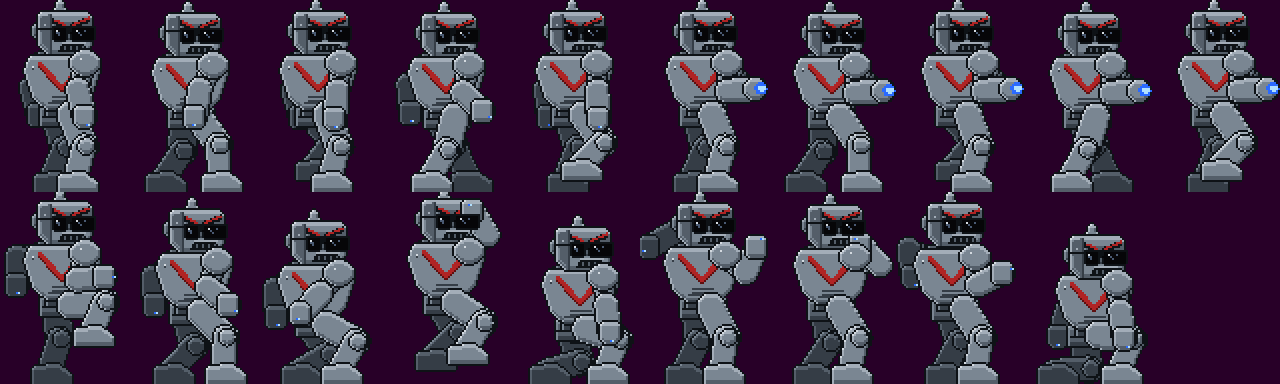
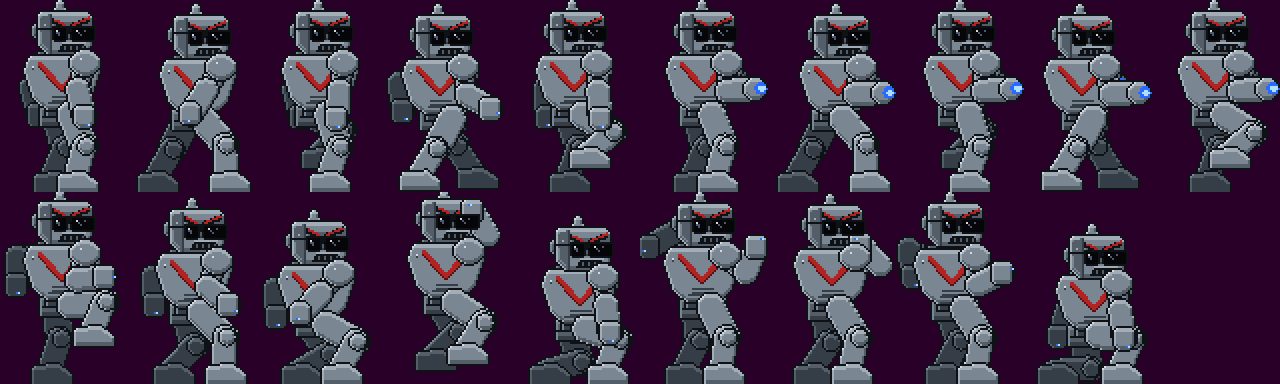
v0.1.1 art: bigger stride, torso sway, heavy footfalls
Longer steps with a high knee lift on the passing step, more body bob, the
chest, head and arms sway left and right with each step, and the screen
shakes a little on every footfall. Shooting while walking uses the same legs.

diff --git a/tools/make_art.py b/tools/make_art.py
@@ -425,15 +425,15 @@ def r_head(cv, hx, hy, eyes):
 ROBOT_POSES = [
     # name, dy, lean, front ankle, back ankle, front hand, back hand, palm, head dy, eyes
     ("stand", 0, 0, (37, 89), (25, 89), (42, 58), (19, 57), 0, 0, "on"),
-    ("walk1", 1, 0, (45, 89), (17, 89), (33, 58), (28, 58), 0, 0, "on"),
-    ("walk2", 0, 0, (36, 89), (28, 83), (39, 59), (22, 58), 0, 0, "on"),
-    ("walk3", 1, 0, (22, 89), (42, 89), (49, 55), (13, 56), 0, 0, "on"),
-    ("walk4", 0, 0, (33, 83), (26, 89), (43, 59), (18, 58), 0, 0, "on"),
+    ("walk1", 2, 4, (49, 89), (13, 89), (30, 58), (33, 58), 0, 0, "on"),
+    ("walk2", 0, 1, (35, 89), (31, 77), (40, 59), (22, 58), 0, 0, "on"),
+    ("walk3", 2, -3, (16, 89), (46, 89), (53, 54), (9, 55), 0, 0, "on"),
+    ("walk4", 0, 0, (37, 77), (27, 89), (44, 59), (17, 58), 0, 0, "on"),
     ("shoot", 0, 1, (37, 89), (25, 89), (57, 44), (53, 41), 1, 0, "on"),
-    ("shoot1", 1, 1, (45, 89), (17, 89), (57, 45), (53, 42), 1, 0, "on"),
-    ("shoot2", 0, 1, (36, 89), (28, 83), (57, 44), (53, 41), 1, 0, "on"),
-    ("shoot3", 1, 1, (22, 89), (42, 89), (57, 45), (53, 42), 1, 0, "on"),
-    ("shoot4", 0, 1, (33, 83), (26, 89), (57, 44), (53, 41), 1, 0, "on"),
+    ("shoot1", 2, 4, (49, 89), (13, 89), (57, 46), (53, 43), 1, 0, "on"),
+    ("shoot2", 0, 2, (35, 89), (31, 77), (57, 44), (53, 41), 1, 0, "on"),
+    ("shoot3", 2, -2, (16, 89), (46, 89), (57, 46), (53, 43), 1, 0, "on"),
+    ("shoot4", 0, 1, (37, 77), (27, 89), (57, 44), (53, 41), 1, 0, "on"),
     ("stomp_up", -1, 0, (45, 70), (24, 89), (52, 42), (8, 46), 0, 0, "on"),
     ("stomp_dn", 3, 2, (47, 89), (21, 89), (50, 56), (13, 56), 0, 0, "on"),
     ("crouch", 9, -1, (41, 89), (21, 89), (19, 64), (10, 62), 0, 0, "on"),

diff --git a/src/play.c b/src/play.c
@@ -889,6 +889,10 @@ static void robot_update(void) {
             R.shoot_t = 16;
         }
         int wf = (R.walk >> 11) & 3;
+        // heavy footfalls: a little shake each time a foot lands
+        static int last_wf;
+        if (R.moving && wf != last_wf && (wf & 1) == 0) shake(3, 1);
+        last_wf = wf;
         if (R.hurt_t > 6) R.frame = RF_HURT;
         else if (R.shoot_t) R.frame = R.moving ? RF_SHOOT1 + wf : RF_SHOOT;
         else R.frame = R.moving ? RF_WALK1 + wf : RF_STAND;
